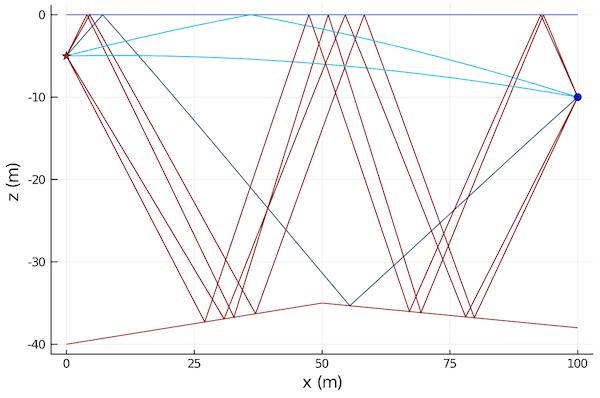
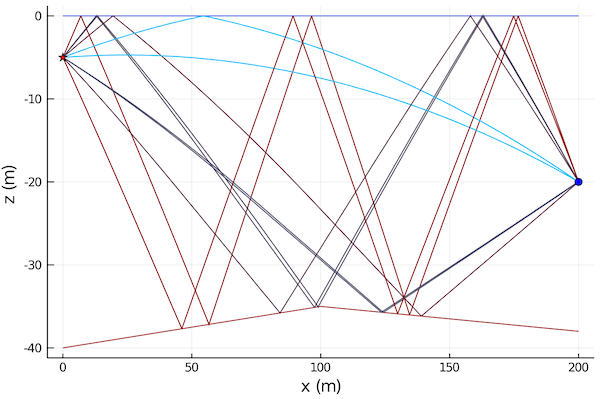
fix(pm): improve RaySolver eigenray accuracy

diff --git a/docs/src/pm_rays.md b/docs/src/pm_rays.md
@@ -31,12 +31,12 @@ using Plots
 env = UnderwaterEnvironment(
   seasurface = SeaState2,
   seabed = SandyClay,
-  ssp = SampledSSP(0.0:20.0:40.0, [1540.0, 1510.0, 1520.0], :smooth),
-  bathymetry = SampledDepth(0.0:50.0:100.0, [40.0, 35.0, 38.0], :linear)
+  ssp = SampledSSP(0.0:20.0:40.0, [1540.0, 1510.0, 1510.0], :linear),
+  bathymetry = SampledDepth(0.0:100.0:200.0, [40.0, 35.0, 38.0], :linear)
 )
-pm = RaySolver(env; solvertol=1e-5)
+pm = RaySolver(env; nbeams=1000)
 tx = AcousticSource(0.0, -5.0, 1000.0)
-rx = AcousticReceiver(100.0, -10.0)
+rx = AcousticReceiver(200.0, -20.0)
 r = eigenrays(pm, tx, rx)
 plot(env; sources=[tx], receivers=[rx], rays=r)
 ```
